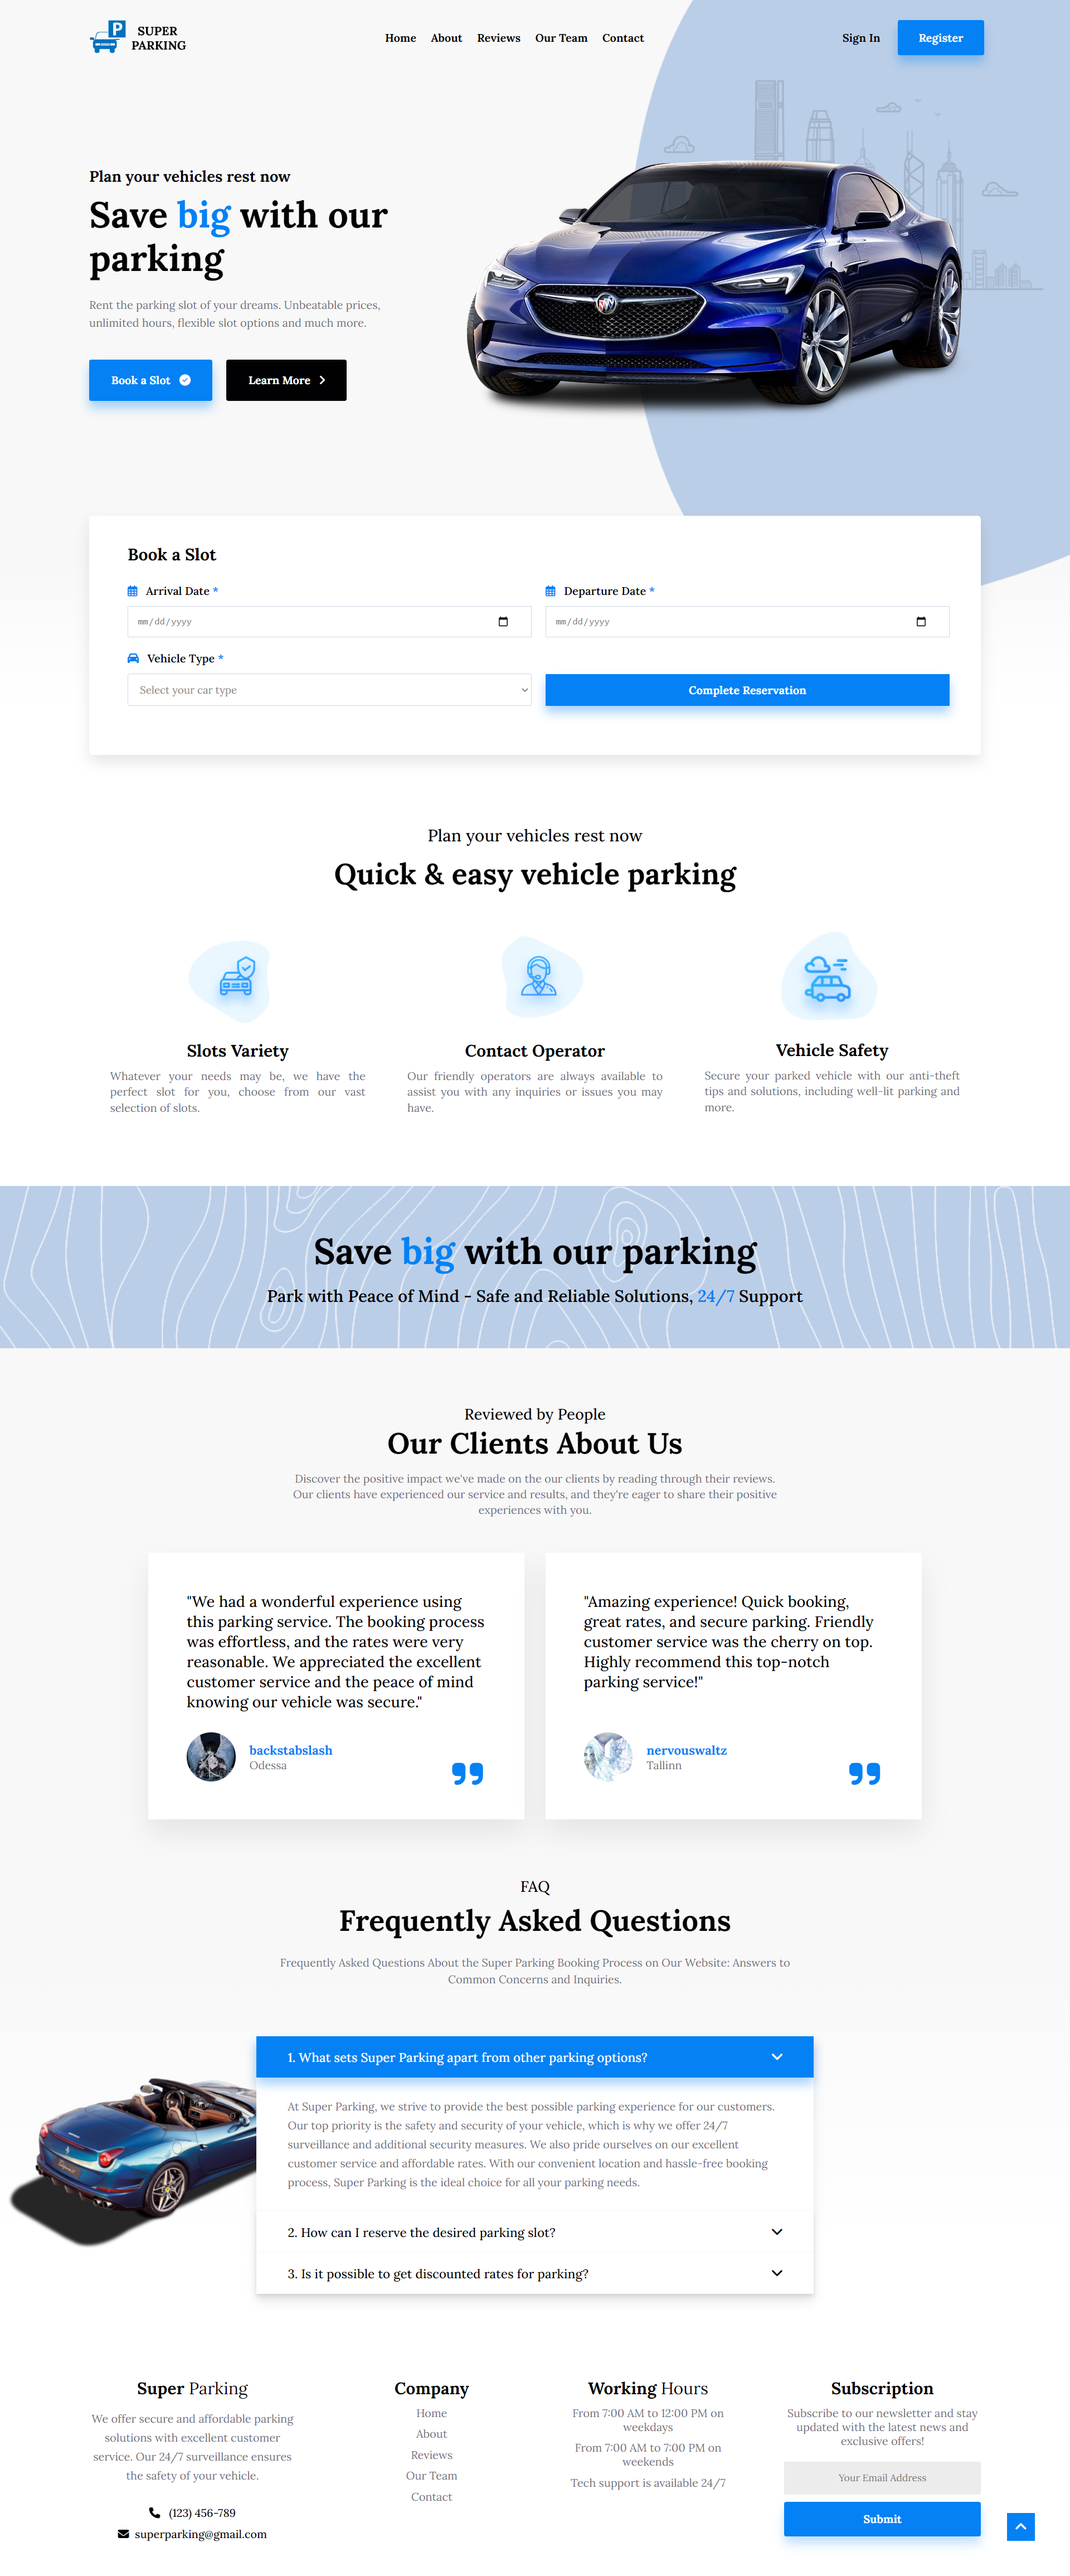
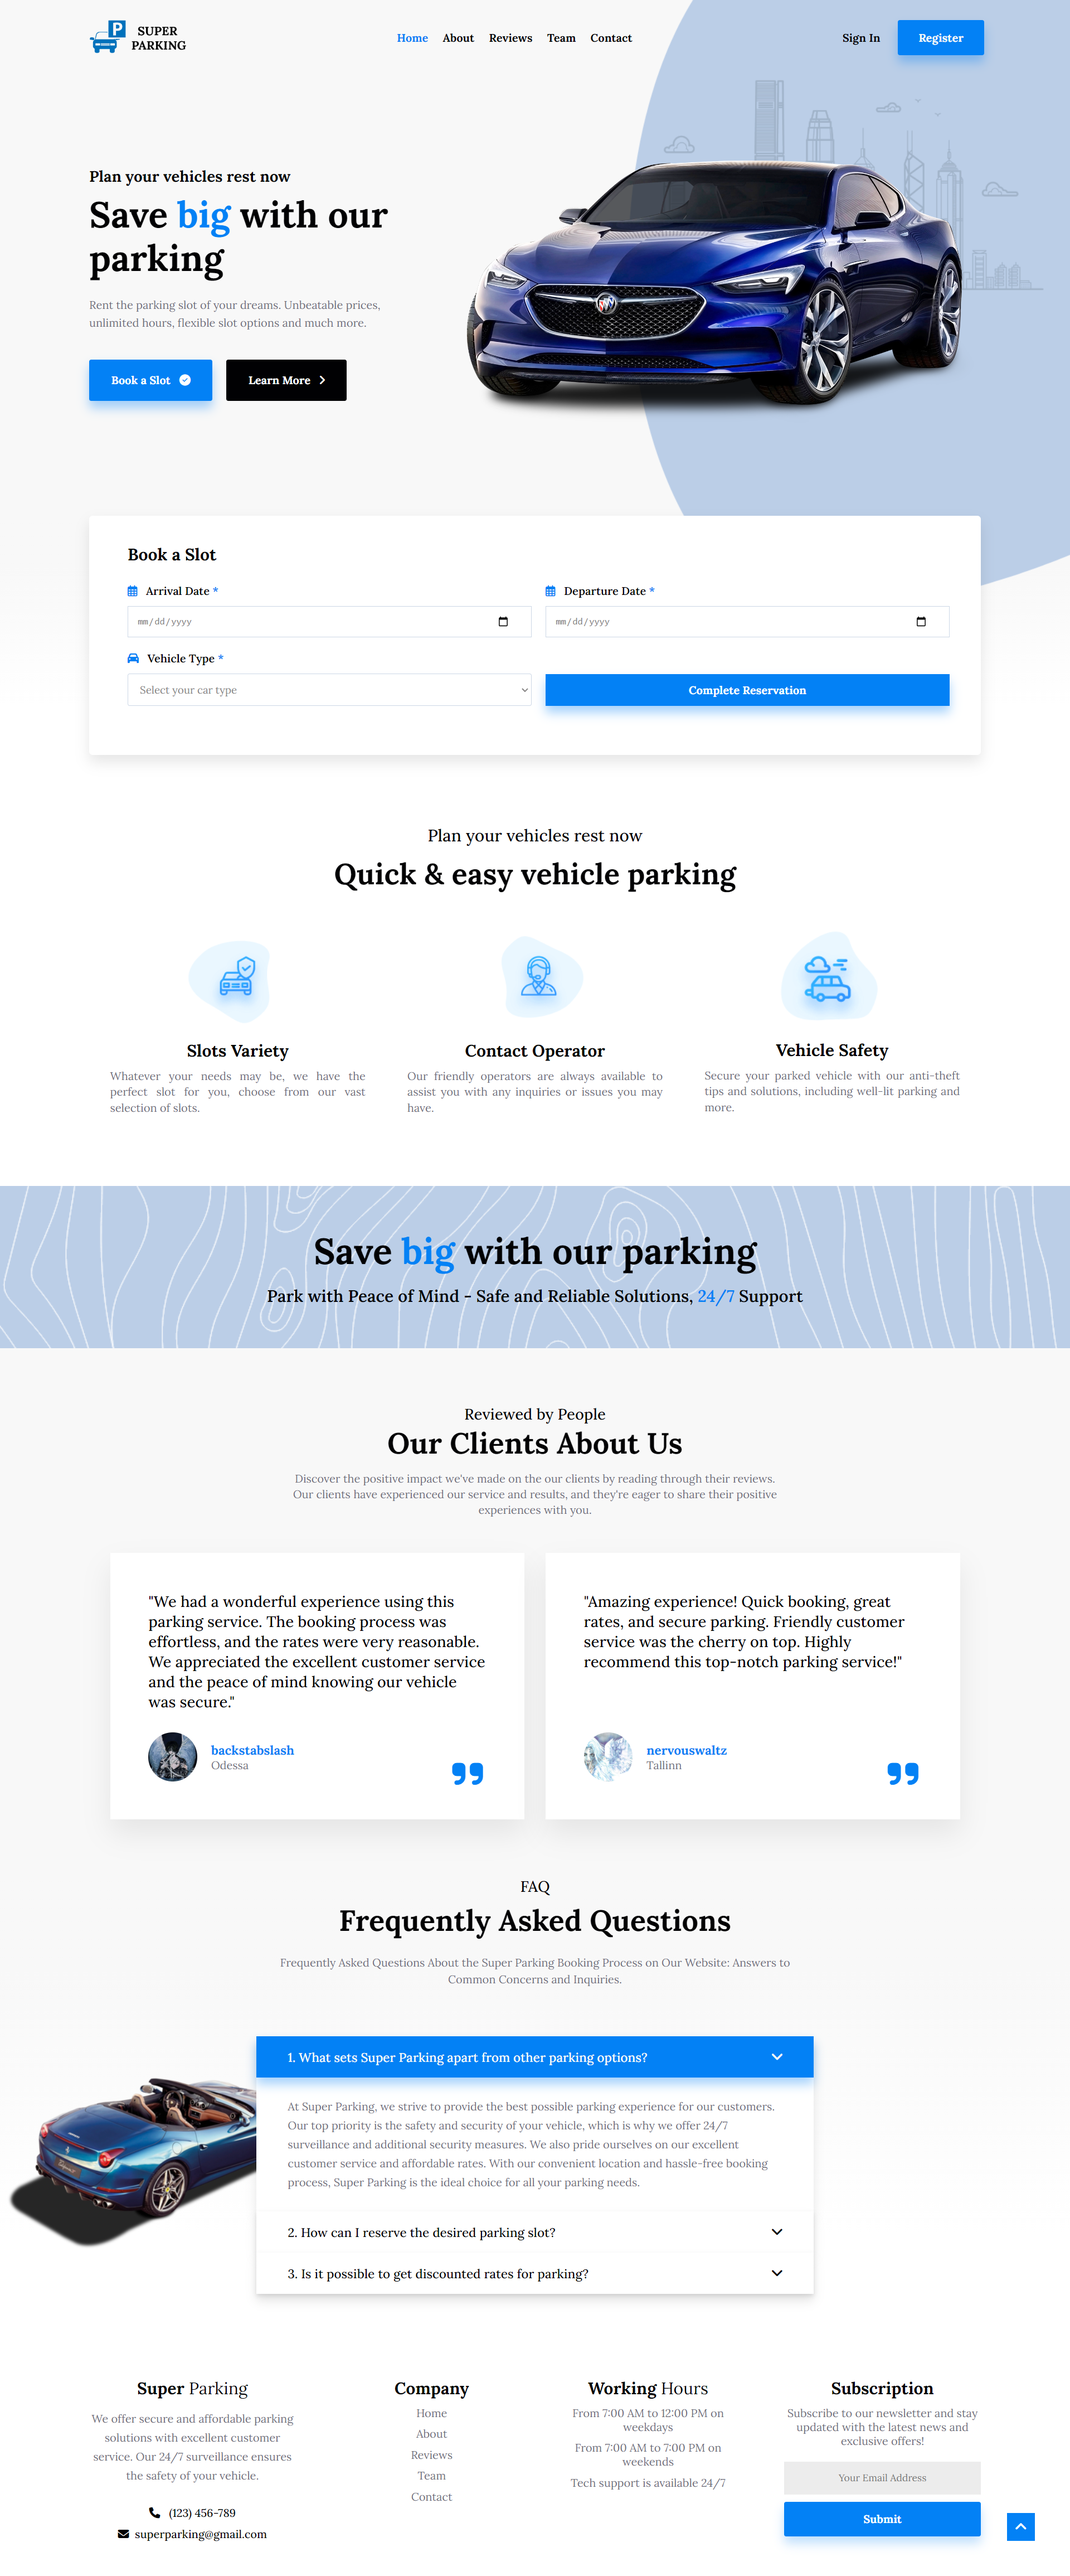
small fixes, prep done for the user profile

Changed region(s): [[0.125, 0.6234, 0.4375, 0.7169], [0.5312, 0.6234, 0.8438, 0.6545], [0.8125, 0.6857, 0.8438, 0.7169]]

diff --git a/frontend/src/container/main/book/book.jsx b/frontend/src/container/main/book/book.jsx
@@ -32,7 +32,7 @@ function Book() {
   const [lastName, setLastName] = useState(
     auth.fullName?.substring(auth.fullName.indexOf(" ") + 1) || ""
   );
-  const [phone, setPhone] = useState(auth.phoneNumber || "");
+  const [phone, setPhone] = useState("");
   const [age, setAge] = useState("18");
   const [wantedVehicle, setWantedVehicle] = useState("");
   const [wantedSlot, setWantedSlot] = useState("");
@@ -58,6 +58,7 @@ function Book() {
     setTotalPrice(0);
     setWantedSlot("");
     setWantedVehicle("");
+    setPhone(auth.phoneNumber || "");
   }, [vehicleType]);
 
   useEffect(() => {
@@ -228,11 +229,12 @@ function Book() {
 
   const getVehicles = () => {
     return properVehicles.map((vehicle) => {
-      const isDisabled = bookings.filter(
-        (book) =>
-          Date.parse(book.end_date) < Date.now &&
-          book.vehicle_id === vehicle.vehicle_id
-      );
+      const isDisabled =
+        bookings.filter(
+          (book) =>
+            (book.status === "ongoing" || book.status === "upcoming") &&
+            book.vehicle_id === vehicle.vehicle_id
+        ).length > 0;
       return (
         <option
           value={vehicle.vehicle_id}

diff --git a/backend/contollers/auth-controller.js b/backend/contollers/auth-controller.js
@@ -27,7 +27,7 @@ class AuthController {
     try {
       const { username, password } = req.body;
       const foundUser = await db("connect_user").query(
-        `select category, full_name from Users where Users.username = $1 and Users.password = $2`,
+        `select category, full_name, phone_number from Users where Users.username = $1 and Users.password = $2`,
         [username, sha256(password)]
       );
       if (!foundUser.rowCount) throw "no such user yet";
@@ -35,12 +35,12 @@ class AuthController {
       const accessToken = jwt.sign(
         { username, role: foundUser.rows[0].category },
         process.env.ACCESS_TOKEN_SALT,
-        { expiresIn: "30s" }
+        { expiresIn: "1h" }
       );
       const refreshToken = jwt.sign(
         { username, role: foundUser.rows[0].category },
         process.env.REFRESH_TOKEN_SALT,
-        { expiresIn: "12h" }
+        { expiresIn: "24h" }
       );
       res.cookie("jwt", refreshToken, {
         httpOnly: true,

diff --git a/frontend/src/container/header/header.jsx b/frontend/src/container/header/header.jsx
@@ -27,6 +27,9 @@ function Header() {
   useEffect(() => {
     const currentPath = location.pathname;
     switch (currentPath) {
+      case "/":
+        setActiveLink("home");
+        break;
       case "/about":
         setActiveLink("about");
         break;
@@ -46,7 +49,7 @@ function Header() {
         setActiveLink("signup");
         break;
       default:
-        setActiveLink("home");
+        setActiveLink("");
     }
   }, [location]);
 
@@ -234,7 +237,7 @@ function Header() {
                 >
                   Log Out
                 </Link>
-                <Link className="navbar__buttons__register" to="/">
+                <Link className="navbar__buttons__register" to="/profile">
                   {auth.username}
                 </Link>
               </>

diff --git a/frontend/src/App.tsx b/frontend/src/App.tsx
@@ -9,6 +9,7 @@ import About from "./components/about";
 import ReviewsPage from "./components/reviewspage";
 import Team from "./components/team";
 import Contact from "./components/contact";
+import Profile from "./components/profile";
 
 function App() {
   return (
@@ -24,6 +25,7 @@ function App() {
             <Route path="/reviews" element={<ReviewsPage />} />
             <Route path="/team" element={<Team />} />
             <Route path="/contact" element={<Contact />} />
+            <Route path="/profile" element={<Profile />} />
           </Route>
         </Routes>
       </div>

diff --git a/frontend/src/components/profile.jsx b/frontend/src/components/profile.jsx
@@ -1,8 +1,6 @@
-import React, { useState } from "react";
-import "./profile.css";
 import { useAppSelector } from "../redux/hooks";
 
-function Slot() {
+function Profile() {
   const auth = useAppSelector((state) => state.auth);
   const bookings = useAppSelector((state) => state.booking.bookings);
   const vehicles = useAppSelector((state) => state.vehicle.vehicles);
@@ -11,4 +9,4 @@ function Slot() {
   return <></>;
 }
 
-export default Slot;
+export default Profile;

diff --git a/frontend/src/styles/headerStyles/_header.scss b/frontend/src/styles/headerStyles/_header.scss
@@ -115,7 +115,7 @@
   position: fixed;
   top: 0;
   left: -100%;
-  background-color: $bg-gray;
+  background: linear-gradient(to bottom, $bg-gray 20%, $bg-white 80%);
   z-index: 999999;
   justify-content: center;
   align-items: center;
@@ -127,10 +127,11 @@
     top: 3.5rem;
     right: 3.5rem;
     cursor: pointer;
+    color: $text-blue;
     transition: all 0.3s;
 
     &:hover {
-      color: $text-blue;
+      color: $text-black;
     }
   }
 

diff --git a/frontend/src/components/team.jsx b/frontend/src/components/team.jsx
@@ -1,8 +1,8 @@
 import Footer from "../container/footer/footer";
 import Banner from "../container/main/banner/banner";
-import Member1 from "../images/team/1.jpg";
-import Member2 from "../images/team/2.jpg";
-import Member3 from "../images/team/3.jpg";
+import Member1 from "../images/team/1.png";
+import Member2 from "../images/team/2.png";
+import Member3 from "../images/team/3.png";
 
 function Team() {
   const team = [

diff --git a/frontend/src/components/about.jsx b/frontend/src/components/about.jsx
@@ -1,6 +1,6 @@
 import Plan from "../container/main/plan/plan";
 import Footer from "../container/footer/footer";
-import AboutMain from "../images/about/about-main.jpg";
+import AboutMain from "../images/about/about-main.png";
 import Box1 from "../images/about/icon1.png";
 import Box2 from "../images/about/icon2.png";
 import Box3 from "../images/about/icon3.png";

diff --git a/frontend/src/styles/faqStyles/_faq.scss b/frontend/src/styles/faqStyles/_faq.scss
@@ -3,7 +3,7 @@
 .faq-section {
   padding-bottom: 4rem;
   background: linear-gradient(to bottom, $bg-gray 20%, $bg-white 80%),
-    url("../../images/faq/car2.png");
+    url("../../images/faq/car.png");
   background-size: auto;
   background-repeat: no-repeat;
   background-position: 0 75%;

diff --git a/frontend/src/styles/bookStyles/_book.scss b/frontend/src/styles/bookStyles/_book.scss
@@ -199,7 +199,7 @@
   max-height: calc(100vh - 60px);
   overflow-y: scroll;
   box-sizing: border-box;
-  background-color: $bg-gray;
+  background: linear-gradient(to bottom, $bg-gray 20%, $bg-white 80%);
   color: $text-black;
 
   @media (max-width: 800px) {

diff --git a/frontend/src/styles/styles.scss b/frontend/src/styles/styles.scss
@@ -13,3 +13,4 @@
 @forward "../styles/reviewspageStyles";
 @forward "../styles/teamStyles";
 @forward "../styles/contactStyles";
+@forward "../styles/profileStyles";

diff --git a/frontend/src/styles/profileStyles/_profile.scss b/frontend/src/styles/profileStyles/_profile.scss
@@ -1,0 +1,1 @@
+@use "../global/" as *;
